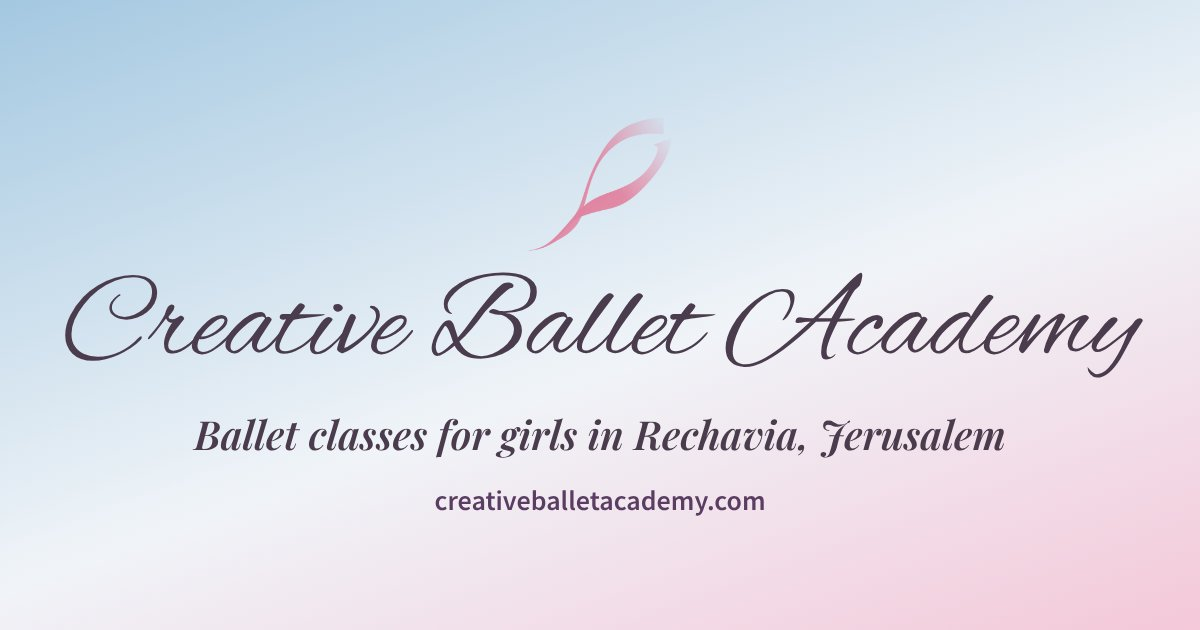
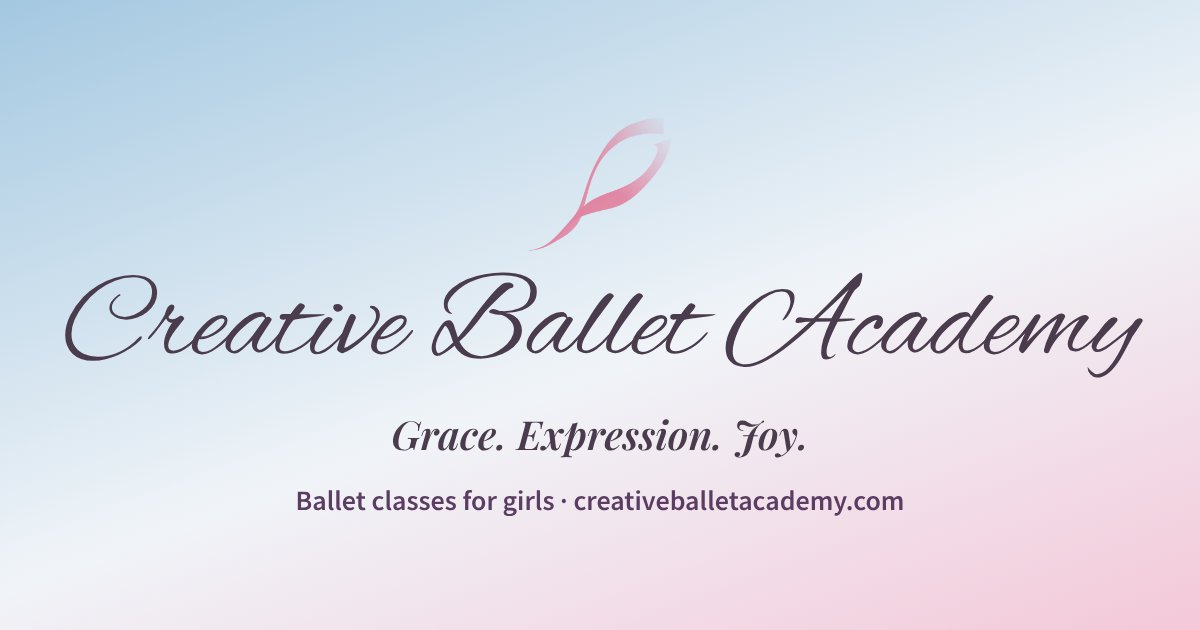
New timetable, trial class 1 Dec, start 16 Dec, lighter copy
- Wednesdays: grades 1–2 4:30–5:15, 3–5 5:15–6:15, 6–8 6:15–7:15,
  high school & adults 7:30–9:00 (ages 3–5 at the community center)
- Trial class Tuesday 1 December, with a tick box in the form
- Founding Families: register by end of Chanuka (no count shown)
- Warmer, lighter welcome and 'why' copy; share image uses the tagline
- Page titles no longer lead with the neighbourhood

Claude-Session: https://claude.ai/code/session_01CNMzHahu2JZcRT8rbs4t8w

Changed region(s): [[0.1542, 0.6635, 0.8325, 0.7238], [0.2467, 0.7841, 0.7708, 0.8143]]

diff --git a/he/index.html b/he/index.html
@@ -3,10 +3,10 @@
 <head>
 <meta charset="UTF-8">
 <meta name="viewport" content="width=device-width, initial-scale=1.0">
-<title>חוג בלט לבנות ברחביה, ירושלים | Creative Ballet Academy</title>
-<meta name="description" content="שיעורי בלט לבנות ברחביה, ירושלים: בימי רביעי באברבנאל 23 לכיתות א׳–ב׳, ג׳–ד׳, ה׳ ומעלה, ולתיכון ובוגרות, ושיעור לגילאי 3–5 במתנ״ס. מתחילים מיד אחרי חנוכה.">
-<meta property="og:title" content="Creative Ballet Academy — חוג בלט לבנות ברחביה, ירושלים">
-<meta property="og:description" content="שיעורי בלט לבנות ברחביה, ירושלים: בימי רביעי באברבנאל 23 לכיתות א׳–ב׳, ג׳–ד׳, ה׳ ומעלה, ולתיכון ובוגרות, ושיעור לגילאי 3–5 במתנ״ס. מתחילים מיד אחרי חנוכה.">
+<title>חוג בלט לבנות בירושלים | Creative Ballet Academy</title>
+<meta name="description" content="שיעורי בלט לבנות ברחביה, ירושלים: בימי רביעי באברבנאל 23 לכיתות א׳–ב׳, ג׳–ה׳, ו׳–ח׳, ולתיכון ובוגרות, ושיעור לגילאי 3–5 במתנ״ס. שיעור ניסיון ב-1 בדצמבר, השיעורים מ-16 בדצמבר.">
+<meta property="og:title" content="Creative Ballet Academy — חוג בלט לבנות בירושלים">
+<meta property="og:description" content="שיעורי בלט לבנות ברחביה, ירושלים: בימי רביעי באברבנאל 23 לכיתות א׳–ב׳, ג׳–ה׳, ו׳–ח׳, ולתיכון ובוגרות, ושיעור לגילאי 3–5 במתנ״ס. שיעור ניסיון ב-1 בדצמבר, השיעורים מ-16 בדצמבר.">
 <meta property="og:type" content="website">
 <meta property="og:url" content="https://creativeballetacademy.com/he/">
 <meta property="og:image" content="https://creativeballetacademy.com/assets/og-image.jpg">
@@ -24,7 +24,7 @@
   "@context": "https://schema.org",
   "@type": ["DanceSchool", "EducationalOrganization"],
   "name": "Creative Ballet Academy",
-  "description": "חוג בלט לבנות ברחביה, ירושלים: שיעורים בימי רביעי לכיתות א׳–ב׳, ג׳–ד׳, ה׳ ומעלה, ולתיכון ובוגרות.",
+  "description": "חוג בלט לבנות בירושלים: שיעורים בימי רביעי לכיתות א׳–ב׳, ג׳–ה׳, ו׳–ח׳, ולתיכון ובוגרות.",
   "url": "https://creativeballetacademy.com/he/",
   "telephone": "+972584421987",
   "email": "info@creativeballetacademy.com",
@@ -419,7 +419,7 @@
 <main id="main-content">
 
   <section class="hero" id="top">
-    <p class="hero-badge">מתחילים מיד אחרי חנוכה · מחיר מייסדות ל-20 הראשונות</p>
+    <p class="hero-badge">שיעור ניסיון ביום שלישי, 1 בדצמבר · מתחילים ביום רביעי, 16 בדצמבר</p>
     <h1>Creative Ballet Academy</h1>
     <p class="tagline">חן. ביטוי. שמחה.</p>
     <p class="subhead">חוג בלט לבנות בירושלים — מקום חם ותומך לבנות ביטחון עצמי ולגלות את השמחה שבתנועה, מהגן ועד תיכון ובוגרות.</p>
@@ -430,31 +430,31 @@
   </section>
 
   <section class="welcome" aria-labelledby="welcome-heading">
-    <h2 id="welcome-heading">חיבוק מטפח לצמיחה</h2>
-    <p>ברוכים הבאים ל-Creative Ballet Academy, סביבה מטפחת שבה נערות צעירות מוזמנות להתעמק באמנות הבלט, וחוגגות כל אחת את עצמה האותנטית. כאן, בתך תפרח כשהיא תגלה ביטחון קורן ותיתן ללב שלה לשיר דרך התנועה.</p>
+    <h2 id="welcome-heading">בואי לרקוד איתנו!</h2>
+    <p>Creative Ballet Academy הוא מקום חם ושמח ללמוד בו בלט אמיתי. כל שיעור משלב טכניקה נכונה עם מוזיקה, סיפורים והרבה כיף, והבנות יוצאות קצת יותר חזקות, קצת יותר אמיצות ועם חיוך.</p>
   </section>
 
   <section class="why" id="why" aria-labelledby="why-heading">
-    <h2 id="why-heading">גלי את הרקדנית שבך</h2>
+    <h2 id="why-heading">למה הבנות אוהבות</h2>
     <div class="why-grid">
       <div class="why-card">
-        <h3>ביטחון קורן</h3>
-        <p>לטפח ביטחון עצמי דרך הבלט, כשהריקוד הפנימי שלה מוביל אותה למסע של גילוי וצמיחה.</p>
+        <h3>ביטחון עצמי</h3>
+        <p>כל צעד חדש שהיא שולטת בו הוא ניצחון קטן. משבוע לשבוע היא עומדת זקופה יותר ומעזה לנסות דברים חדשים.</p>
       </div>
       <div class="why-card">
-        <h3>חינניות וחן</h3>
-        <p>צפי בה פורחת לתוך עדינות, כשהיא משתלטת על אומנות הבלט בכוח חינני וביופי מעודן.</p>
+        <h3>חברות וכיף</h3>
+        <p>קבוצות קטנות, משחקים והרבה צחוק. שיעור שהיא תחכה לו בכל יום רביעי.</p>
       </div>
       <div class="why-card">
-        <h3>סיפור סיפורים יצירתי וחופש</h3>
-        <p>עודדי את הדמיון והביטוי העצמי שלה, תוך מתן חירות לשזור סיפורים בשפה השמחה של הריקוד.</p>
+        <h3>ביטוי</h3>
+        <p>סיפורים, מוזיקה והרעיונות שלה. היא לומדת להביע את עצמה בתנועה, בדרך שלה.</p>
       </div>
     </div>
   </section>
 
   <section class="programs" id="programs" aria-labelledby="programs-heading">
     <h2 id="programs-heading">שיעורים ושעות</h2>
-    <p class="section-intro">קבוצות קטנות ומספר מקומות מוגבל בכל שיעור. השיעורים לבנות. מכיתה א׳ ומעלה, בכל יום רביעי באברבנאל 23 (קומה עליונה), רחביה. השיעור לגילאי 3–5 מתקיים במתנ״ס.</p>
+    <p class="section-intro">קבוצות קטנות ומספר מקומות מוגבל בכל שיעור. השיעורים לבנות, בכל יום רביעי החל מ-16 בדצמבר, באברבנאל 23 (קומה עליונה), רחביה. השיעור לגילאי 3–5 מתקיים במתנ״ס.</p>
     <ul class="program-list">
       <li class="program-card">
         <span class="age">גילאי 3–5</span>
@@ -464,22 +464,22 @@
       <li class="program-card">
         <span class="age">כיתות א׳–ב׳</span>
         <h3 dir="ltr">4:30–5:15</h3>
-        <p>צעד ראשון ומשחקי לתוך הבלט: עמדות בסיס, קצב ותנועה דרך סיפור.</p>
+        <p>סיבובים, קפיצות וסיפורים עם מוזיקה. טעימה ראשונה ושמחה מבלט אמיתי.</p>
       </li>
       <li class="program-card">
-        <span class="age">כיתות ג׳–ד׳</span>
-        <h3 dir="ltr">5:15–6:00</h3>
-        <p>בונים טכניקה, שיווי משקל וקואורדינציה, עם ריקודים יצירתיים ללמוד וליהנות.</p>
+        <span class="age">כיתות ג׳–ה׳</span>
+        <h3 dir="ltr">5:15–6:15</h3>
+        <p>צעדי בלט אמיתיים, משחקי שיווי משקל וריקודים קצרים ללמוד ולהופיע.</p>
       </li>
       <li class="program-card">
-        <span class="age">כיתה ה׳ ומעלה</span>
-        <h3 dir="ltr">6:30–7:15</h3>
-        <p>טכניקה מתקדמת יותר ושילובים ארוכים, עם מקום לביטוי האישי של כל אחת.</p>
+        <span class="age">כיתות ו׳–ח׳</span>
+        <h3 dir="ltr">6:15–7:15</h3>
+        <p>טכניקה חזקה יותר, ריקודים ארוכים יותר והרבה מקום לרעיונות שלה.</p>
       </li>
       <li class="program-card">
         <span class="age">תיכון ובוגרות</span>
         <h3 dir="ltr">7:30–9:00</h3>
-        <p>שיעור בלט מלא לבנות תיכון ולנשים, מכל רמה, גם למתחילות.</p>
+        <p>שיעור בלט מלא לבנות תיכון ולנשים. מתחילות מוזמנות בשמחה.</p>
       </li>
     </ul>
     <div class="prices" aria-labelledby="prices-heading">
@@ -487,12 +487,12 @@
       <table>
         <thead><tr><th scope="col">אורך השיעור</th><th scope="col">לחודש</th><th scope="col">משפחות מייסדות</th></tr></thead>
         <tbody>
-          <tr><th scope="row">45 דקות</th><td>₪220</td><td><strong>₪190</strong></td></tr>
-          <tr><th scope="row">שעה</th><td>₪260</td><td><strong>₪225</strong></td></tr>
+          <tr><th scope="row">45 דקות (א׳–ב׳)</th><td>₪220</td><td><strong>₪190</strong></td></tr>
+          <tr><th scope="row">שעה (ג׳–ח׳)</th><td>₪260</td><td><strong>₪225</strong></td></tr>
           <tr><th scope="row">שעה וחצי (תיכון ובוגרות)</th><td>₪300</td><td><strong>₪260</strong></td></tr>
         </tbody>
       </table>
-      <p><strong>משפחות מייסדות:</strong> 20 הבנות הראשונות שנרשמות עד סוף חנוכה שומרות על המחיר המיוחד לכל השנה הראשונה.</p>
+      <p><strong>משפחות מייסדות:</strong> נרשמות עד סוף חנוכה ושומרות על המחיר המיוחד לכל השנה הראשונה.</p>
       <p><strong>אחיות:</strong> 10% הנחה לכל אחות.</p>
     </div>
     <p class="section-intro" style="margin:36px auto 0;">יום או שעה אחרים יתאימו לך יותר? <a href="#join">כתבי לנו בטופס</a> — אנחנו מתכננות שיעורים חדשים לפי מה שמשפחות מבקשות.</p>
@@ -502,8 +502,9 @@
     <h2 id="how-heading">איך מצטרפים</h2>
     <ol class="steps">
       <li><h3>שולחים את הטופס</h3><p>מספרים לנו באיזו כיתה הבת שלך ואיזה שיעור מעניין אותך. זה לוקח דקה.</p></li>
-      <li><h3>אנחנו חוזרות אלייך</h3><p>נתקשר או נשלח הודעה כדי לאשר את המקום שלה ולענות על כל שאלה.</p></li>
-      <li><h3>באות לרקוד</h3><p>השיעורים מתחילים ביום רביעי הראשון אחרי חנוכה, באברבנאל 23, קומה עליונה. בגדים נוחים מספיקים בהתחלה.</p></li>
+      <li><h3>באות לשיעור ניסיון</h3><p>ביום שלישי, 1 בדצמבר, לפני חנוכה. סמני בטופס ונשלח לך את השעה.</p></li>
+      <li><h3>מאשרות את המקום</h3><p>נתקשר או נשלח הודעה כדי לאשר את המקום שלה ולענות על כל שאלה.</p></li>
+      <li><h3>באות לרקוד!</h3><p>השיעורים מתחילים ביום רביעי, 16 בדצמבר, באברבנאל 23, קומה עליונה. בגדים נוחים מספיקים בהתחלה.</p></li>
     </ol>
   </section>
 
@@ -516,7 +517,7 @@
   <section id="join" aria-labelledby="cta-heading" class="join-section">
     <div class="cta-section">
       <h2 id="cta-heading">הרשמה לשיעור</h2>
-      <p>השיעורים מתחילים מיד אחרי חנוכה, ומספר המקומות בכל שיעור מוגבל. השאירי פרטים כדי לשמור מקום, ונחזור אלייך עם כל מה שצריך לדעת.</p>
+      <p>השיעורים מתחילים ביום רביעי, 16 בדצמבר, ומספר המקומות בכל שיעור מוגבל. השאירי פרטים כדי לשמור מקום, ונחזור אלייך עם כל מה שצריך לדעת.</p>
       <form id="contact-form" class="contact-form" aria-label="Contact form">
         <div style="position:absolute;width:1px;height:1px;overflow:hidden;clip-path:inset(50%);white-space:nowrap" aria-hidden="true"><label for="cba-website">Website</label><input id="cba-website" type="text" tabindex="-1" autocomplete="off"></div>
         <div class="form-row">
@@ -545,8 +546,8 @@
             <option value="">בחרי שיעור…</option>
             <option value="Ages 3–5 (community center)">גילאי 3–5 · במתנ״ס</option>
             <option value="Grades 1–2 (Wed 4:30)">כיתות א׳–ב׳ · רביעי 4:30–5:15</option>
-            <option value="Grades 3–4 (Wed 5:15)">כיתות ג׳–ד׳ · רביעי 5:15–6:00</option>
-            <option value="Grade 5+ (Wed 6:30)">כיתה ה׳ ומעלה · רביעי 6:30–7:15</option>
+            <option value="Grades 3–5 (Wed 5:15)">כיתות ג׳–ה׳ · רביעי 5:15–6:15</option>
+            <option value="Grades 6–8 (Wed 6:15)">כיתות ו׳–ח׳ · רביעי 6:15–7:15</option>
             <option value="High school &amp; adults (Wed 7:30)">תיכון ובוגרות · רביעי 7:30–9:00</option>
             <option value="Another day or time">אף אחת מהשעות לא מתאימה לי</option>
           </select>
@@ -558,6 +559,9 @@
         <div class="form-row">
           <label for="parent-email">אימייל</label>
           <input type="email" id="parent-email" name="parent-email" autocomplete="email" dir="ltr">
+        </div>
+        <div class="form-row form-row-full">
+          <label class="check"><input type="checkbox" id="trial-class" name="trial-class"> נשמח להגיע לשיעור הניסיון ביום שלישי, 1 בדצמבר</label>
         </div>
         <div class="form-row form-row-full">
           <label for="parent-message">עוד משהו? <span style="font-weight:400">(לא חובה)</span></label>

diff --git a/index.html b/index.html
@@ -3,12 +3,12 @@
 <head>
 <meta charset="UTF-8">
 <meta name="viewport" content="width=device-width, initial-scale=1.0">
-<title>Ballet Classes for Girls in Rechavia, Jerusalem | Creative Ballet Academy</title>
-<meta name="description" content="Ballet chug for girls in Rechavia, Jerusalem. Wednesday classes for grades 1–2, 3–4, 5 and up, and high school &amp; adults at Abarbanel 23. Starting after Chanuka.">
+<title>Ballet Classes for Girls in Jerusalem | Creative Ballet Academy</title>
+<meta name="description" content="Ballet chug for girls in Rechavia, Jerusalem. Wednesday classes for grades 1–2, 3–5, 6–8, and high school &amp; adults at Abarbanel 23. Trial class 1 December, classes from 16 December.">
 
 <!-- Open Graph -->
-<meta property="og:title" content="Creative Ballet Academy — Ballet Classes for Girls in Rechavia, Jerusalem">
-<meta property="og:description" content="Ballet chug for girls in Rechavia, Jerusalem. Wednesday classes for grades 1–2, 3–4, 5 and up, and high school &amp; adults at Abarbanel 23. Starting after Chanuka.">
+<meta property="og:title" content="Creative Ballet Academy — Ballet Classes for Girls in Jerusalem">
+<meta property="og:description" content="Ballet chug for girls in Rechavia, Jerusalem. Wednesday classes for grades 1–2, 3–5, 6–8, and high school &amp; adults at Abarbanel 23. Trial class 1 December, classes from 16 December.">
 <meta property="og:type" content="website">
 <meta property="og:url" content="https://creativeballetacademy.com/">
 <meta property="og:image" content="https://creativeballetacademy.com/assets/og-image.jpg">
@@ -31,7 +31,7 @@
   "@type": ["DanceSchool", "EducationalOrganization"],
   "name": "Creative Ballet Academy",
   "url": "https://creativeballetacademy.com",
-  "description": "Ballet classes for girls in Rechavia, Jerusalem: Wednesday classes for grades 1–2, 3–4, 5 and up, and high school & adults.",
+  "description": "Ballet classes for girls in Rechavia, Jerusalem: Wednesday classes for grades 1–2, 3–5, 6–8, and high school & adults.",
   "address": {
     "@type": "PostalAddress",
     "streetAddress": "Abarbanel 23 (top floor)",
@@ -433,7 +433,7 @@
 <main id="main-content">
 
   <section class="hero" id="top">
-    <p class="hero-badge">Classes start right after Chanuka · Founding Families price for the first 20</p>
+    <p class="hero-badge">Trial class Tuesday 1 December · Classes start Wednesday 16 December</p>
     <h1>Creative Ballet Academy</h1>
     <p class="tagline">Grace. Expression. Joy.</p>
     <p class="subhead">After-school ballet classes for girls in Jerusalem — a warm, caring place to build confidence and find the joy of movement, from gan through high school and adults.</p>
@@ -444,31 +444,31 @@
   </section>
 
   <section class="welcome" aria-labelledby="welcome-heading">
-    <h2 id="welcome-heading">A Nurturing Embrace for Growth</h2>
-    <p>Welcome to Creative Ballet Academy, a nurturing environment where young girls are invited to delve into the art of ballet, celebrating each one's authentic self. Here, your daughter will blossom as she discovers radiant confidence and lets her heart sing through movement.</p>
+    <h2 id="welcome-heading">Come Dance With Us!</h2>
+    <p>Creative Ballet Academy is a warm, happy place to learn real ballet. Every class mixes proper technique with music, stories and plenty of fun, so girls leave a little stronger, a little braver and smiling.</p>
   </section>
 
   <section class="why" id="why" aria-labelledby="why-heading">
-    <h2 id="why-heading">Unleash Your Inner Dancer</h2>
+    <h2 id="why-heading">Why Girls Love It</h2>
     <div class="why-grid">
       <div class="why-card">
-        <h3>Radiant Confidence</h3>
-        <p>Cultivate self-assurance through ballet, letting her inner dance lead her on a journey of discovery and growth.</p>
+        <h3>Confidence</h3>
+        <p>Every new step she masters is a small win. Week by week she stands taller and tries new things.</p>
       </div>
       <div class="why-card">
-        <h3>Poise &amp; Grace</h3>
-        <p>Watch her flourish into elegance, mastering the art of ballet with graceful strength and composed beauty.</p>
+        <h3>Friends &amp; Fun</h3>
+        <p>Small groups, games and lots of laughing. A class she'll look forward to every Wednesday.</p>
       </div>
       <div class="why-card">
-        <h3>Creative Storytelling &amp; Freedom</h3>
-        <p>Encourage her imagination and self-expression, offering the freedom to weave stories through the joyful language of dance.</p>
+        <h3>Expression</h3>
+        <p>Stories, music and her own ideas. She learns to say things through movement, her way.</p>
       </div>
     </div>
   </section>
 
   <section class="programs" id="programs" aria-labelledby="programs-heading">
     <h2 id="programs-heading">Classes &amp; Times</h2>
-    <p class="section-intro">Small groups with limited places in each class. Classes are for girls. From grade 1 up, classes are every Wednesday at Abarbanel 23 (top floor), Rechavia. Our ages 3–5 class meets at the community center.</p>
+    <p class="section-intro">Small groups with limited places in each class. Classes are for girls, every Wednesday from 16 December at Abarbanel 23 (top floor), Rechavia. Our ages 3–5 class meets at the community center.</p>
     <ul class="program-list">
       <li class="program-card">
         <span class="age">Ages 3–5</span>
@@ -478,22 +478,22 @@
       <li class="program-card">
         <span class="age">Grades 1–2 · Kita Alef–Bet</span>
         <h3>4:30–5:15 pm</h3>
-        <p>A playful first step into ballet: basic positions, rhythm and story-based movement.</p>
+        <p>Twirls, jumps and stories set to music. A happy first taste of real ballet.</p>
       </li>
       <li class="program-card">
-        <span class="age">Grades 3–4 · Kita Gimel–Dalet</span>
-        <h3>5:15–6:00 pm</h3>
-        <p>Building ballet technique, balance and coordination, with creative dances to learn and enjoy.</p>
+        <span class="age">Grades 3–5 · Kita Gimel–Hei</span>
+        <h3>5:15–6:15 pm</h3>
+        <p>Real ballet steps, balance games and short dances to learn and show off.</p>
       </li>
       <li class="program-card">
-        <span class="age">Grade 5 and up · Kita Hei+</span>
-        <h3>6:30–7:15 pm</h3>
-        <p>Stronger technique and longer combinations, with room for each girl's own expression.</p>
+        <span class="age">Grades 6–8 · Kita Vav–Ches</span>
+        <h3>6:15–7:15 pm</h3>
+        <p>Stronger technique, longer dances and plenty of room for her own ideas.</p>
       </li>
       <li class="program-card">
         <span class="age">High school &amp; adults</span>
         <h3>7:30–9:00 pm</h3>
-        <p>A full ballet class for high school girls and adult women, at every level from beginner up.</p>
+        <p>A full ballet class for high school girls and women. Beginners very welcome.</p>
       </li>
     </ul>
     <div class="prices" aria-labelledby="prices-heading">
@@ -501,12 +501,12 @@
       <table>
         <thead><tr><th scope="col">Class length</th><th scope="col">Per month</th><th scope="col">Founding Families</th></tr></thead>
         <tbody>
-          <tr><th scope="row">45 minutes</th><td>₪220</td><td><strong>₪190</strong></td></tr>
-          <tr><th scope="row">1 hour</th><td>₪260</td><td><strong>₪225</strong></td></tr>
+          <tr><th scope="row">45 minutes (grades 1–2)</th><td>₪220</td><td><strong>₪190</strong></td></tr>
+          <tr><th scope="row">1 hour (grades 3–8)</th><td>₪260</td><td><strong>₪225</strong></td></tr>
           <tr><th scope="row">1½ hours (high school &amp; adults)</th><td>₪300</td><td><strong>₪260</strong></td></tr>
         </tbody>
       </table>
-      <p><strong>Founding Families:</strong> the first 20 girls to register before the end of Chanuka keep the founding price for their whole first year.</p>
+      <p><strong>Founding Families:</strong> register by the end of Chanuka and keep the founding price for your whole first year.</p>
       <p><strong>Sisters:</strong> 10% off for each sister.</p>
     </div>
     <p class="section-intro" style="margin:36px auto 0;">Another day or time would suit you better? <a href="#join">Tell us in the form</a> — we plan new classes around what families ask for.</p>
@@ -516,8 +516,9 @@
     <h2 id="how-heading">How to Join</h2>
     <ol class="steps">
       <li><h3>Send the form</h3><p>Tell us your daughter's grade and which class you're interested in. It takes a minute.</p></li>
-      <li><h3>We get back to you</h3><p>We'll call or message you to confirm her place and answer any questions.</p></li>
-      <li><h3>Come and dance</h3><p>Classes start the first Wednesday after Chanuka at Abarbanel 23, top floor. Comfortable clothes are fine to start.</p></li>
+      <li><h3>Come to the trial class</h3><p>Tuesday 1 December, before Chanuka. Tick the box in the form and we'll send you the time.</p></li>
+      <li><h3>We confirm her place</h3><p>We'll call or message you to confirm her place and answer any questions.</p></li>
+      <li><h3>Come and dance!</h3><p>Classes start Wednesday 16 December at Abarbanel 23, top floor. Comfortable clothes are fine to start.</p></li>
     </ol>
   </section>
 
@@ -530,7 +531,7 @@
   <section id="join" aria-labelledby="cta-heading" class="join-section">
     <div class="cta-section">
       <h2 id="cta-heading">Register for a Class</h2>
-      <p>Classes start right after Chanuka, and places in each class are limited. Send us your details to hold a place, and we'll be in touch with everything you need to know.</p>
+      <p>Classes start Wednesday 16 December, and places in each class are limited. Send us your details to hold a place, and we'll be in touch with everything you need to know.</p>
       <form id="contact-form" class="contact-form" aria-label="Contact form">
         <div style="position:absolute;width:1px;height:1px;overflow:hidden;clip-path:inset(50%);white-space:nowrap" aria-hidden="true"><label for="cba-website">Website</label><input id="cba-website" type="text" tabindex="-1" autocomplete="off"></div>
         <div class="form-row">
@@ -559,8 +560,8 @@
             <option value="">Choose a class…</option>
             <option value="Ages 3–5 (community center)">Ages 3–5 · community center</option>
             <option value="Grades 1–2 (Wed 4:30)">Grades 1–2 · Wednesday 4:30–5:15</option>
-            <option value="Grades 3–4 (Wed 5:15)">Grades 3–4 · Wednesday 5:15–6:00</option>
-            <option value="Grade 5+ (Wed 6:30)">Grade 5 and up · Wednesday 6:30–7:15</option>
+            <option value="Grades 3–5 (Wed 5:15)">Grades 3–5 · Wednesday 5:15–6:15</option>
+            <option value="Grades 6–8 (Wed 6:15)">Grades 6–8 · Wednesday 6:15–7:15</option>
             <option value="High school &amp; adults (Wed 7:30)">High school &amp; adults · Wednesday 7:30–9:00</option>
             <option value="Another day or time">None of these times suit me</option>
           </select>
@@ -572,6 +573,9 @@
         <div class="form-row">
           <label for="parent-email">Email</label>
           <input type="email" id="parent-email" name="parent-email" autocomplete="email">
+        </div>
+        <div class="form-row form-row-full">
+          <label class="check"><input type="checkbox" id="trial-class" name="trial-class"> We'd like to come to the trial class on Tuesday 1 December</label>
         </div>
         <div class="form-row form-row-full">
           <label for="parent-message">Anything else? <span style="font-weight:400">(optional)</span></label>

diff --git a/assets/site.js b/assets/site.js
@@ -77,6 +77,11 @@
       var message = val('parent-message');
       var interest = val('event-type') || val('class-choice') || 'Classes';
       if (grade) message = 'Grade: ' + grade + (message ? ' | ' + message : '');
+      var trial = document.getElementById('trial-class');
+      if (trial && trial.checked) {
+        message = 'Wants the trial class (Tue 1 Dec)' + (message ? ' | ' + message : '');
+        interest = 'Trial class 1 Dec · ' + interest;
+      }
 
       submitBtn.disabled = true;
       show(text.sending, '');

diff --git a/assets/site.css b/assets/site.css
@@ -165,3 +165,6 @@ section[id] { scroll-margin-top: 84px; }
 .prices tbody th { font-weight: 600; color: #4A3B4D; }
 .prices strong { color: #8a4a76; }
 .prices p { margin: 6px 0 0; }
+
+.contact-form label.check { display: flex; gap: 10px; align-items: flex-start; font-weight: 600; cursor: pointer; }
+.contact-form label.check input { width: 20px; height: 20px; margin-top: 3px; flex: none; accent-color: #8a4a76; }
